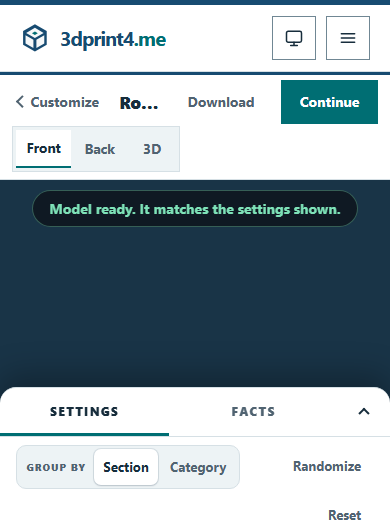
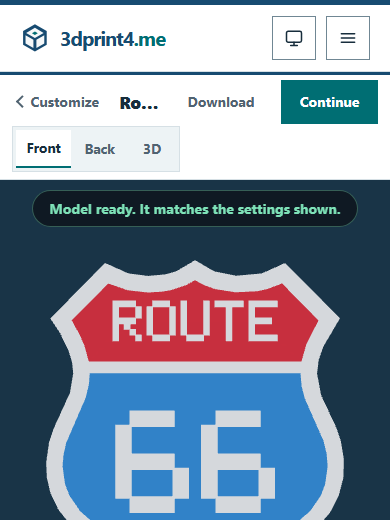
docs: focus bounded captures on rendered preview and unlocked review

diff --git a/scripts/capture-docs-guides.py b/scripts/capture-docs-guides.py
@@ -105,11 +105,14 @@ def reader_and_customizer():
     for device,size in VIEWS:
         with SiteBrowser(viewport=size,color_scheme='light',reduced_motion='reduce') as site:
             site.context.set_offline(True);site.page.goto((ROOT/'operator/review-reader.html').as_uri())
-            unlock_fixture(site.page,fixture);save(site,'review-reader',device,'main h1')
+            unlock_fixture(site.page,fixture);save(site,'review-reader',device,'#result')
     with running_server() as origin:
         for device,size in VIEWS:
             with SiteBrowser(viewport=size,color_scheme='light',reduced_motion='reduce') as site:
                 site.goto(origin+'/customize/g/route-shield/',ready_selector="body[data-build-state='ready']")
+                if device=='mobile':site.page.locator('#cz-sheet-toggle').click()
+                site.page.wait_for_function("document.querySelector('#cz-stage-message')?.hidden && !!document.querySelector('#cz-stage canvas')")
+                site.page.evaluate('()=>new Promise(resolve=>requestAnimationFrame(()=>requestAnimationFrame(resolve)))')
                 save(site,'customizer',device)
 
 if __name__=='__main__':
